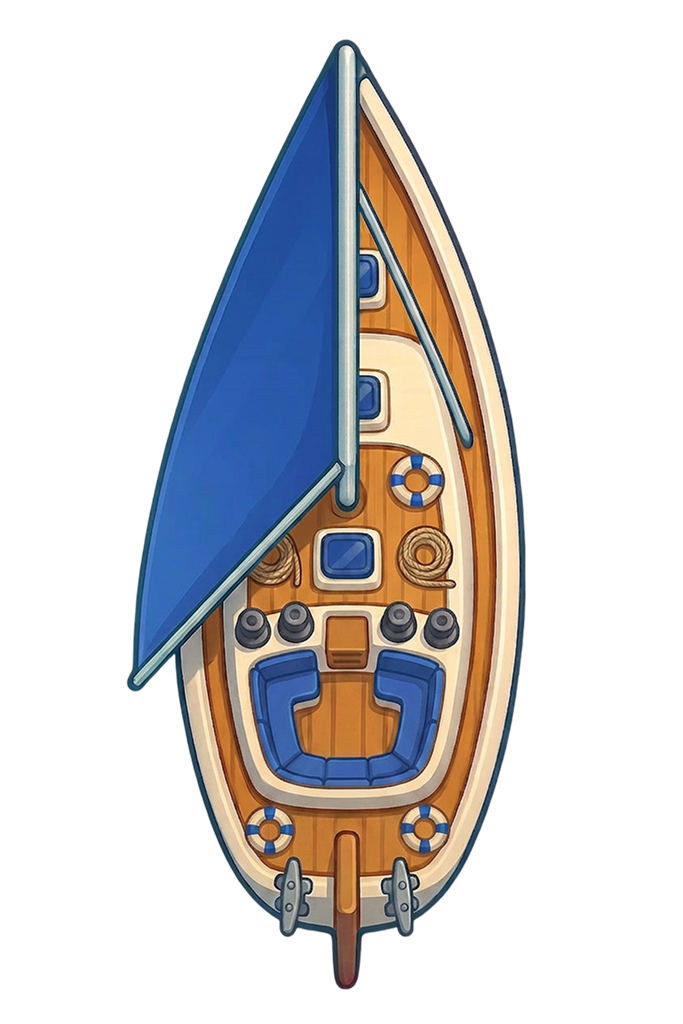
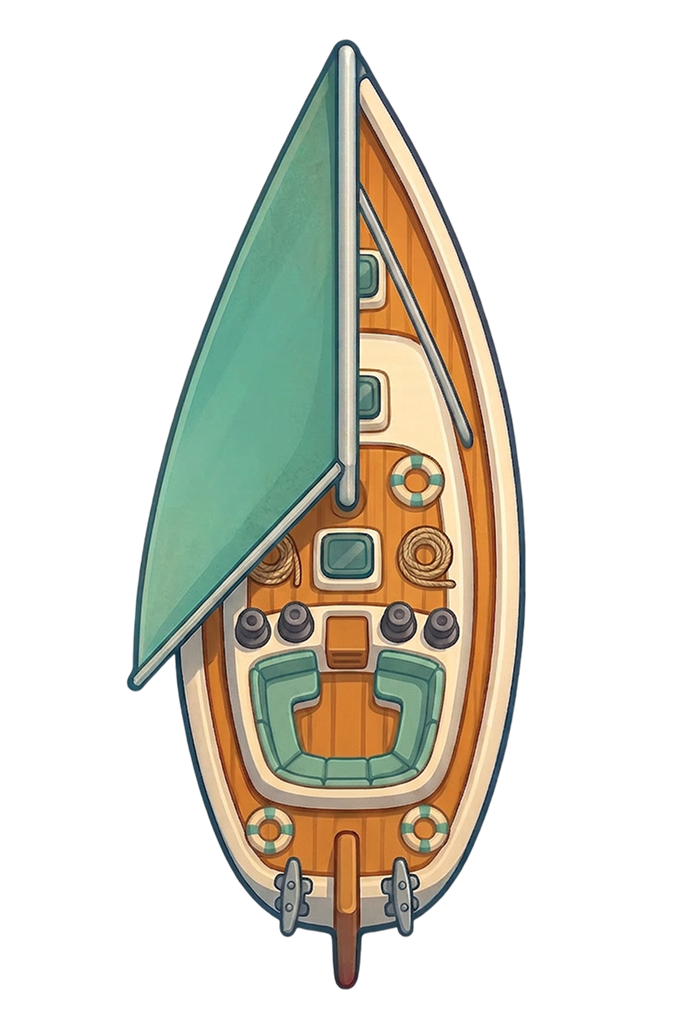
Optimization + Gameplay changes

diff --git a/src/config/tuning.ts b/src/config/tuning.ts
@@ -101,8 +101,6 @@ export const WORLD_OBJECT_DARKENING_CONFIG = {
     "money-change-up": { enabled: true, intensityMultiplier: 1 },
     "money-change-no": { enabled: true, intensityMultiplier: 1 },
     "money-change-down": { enabled: true, intensityMultiplier: 1 },
-    "obstacle-mine": { enabled: true, intensityMultiplier: 1 },
-    "obstacle-pirate": { enabled: true, intensityMultiplier: 1 },
     "obstacle-whirlpool": { enabled: true, intensityMultiplier: 1 },
     "obstacle-rock-1": { enabled: true, intensityMultiplier: 1 },
     "obstacle-rock-2": { enabled: true, intensityMultiplier: 1 },
@@ -126,17 +124,12 @@ export const WORLD_OBJECT_DARKENING_CONFIG = {
     "sea-bg-2-to-3": { enabled: false, intensityMultiplier: 1 },
     "sea-bg-3-to-4": { enabled: false, intensityMultiplier: 1 },
     "start-bg": { enabled: false, intensityMultiplier: 1 },
-    "onboarding-window": { enabled: false, intensityMultiplier: 1 },
     "flag-new": { enabled: false, intensityMultiplier: 1 },
     "skill-wheel-sector-1": { enabled: false, intensityMultiplier: 1 },
-    "skill-wheel-sector-2": { enabled: false, intensityMultiplier: 1 },
-    "skill-wheel-sector-3": { enabled: false, intensityMultiplier: 1 },
     "skill-wheel-bar-body": { enabled: false, intensityMultiplier: 1 },
     "skill-wheel-arrow": { enabled: false, intensityMultiplier: 1 },
     "skill-wheel-bonus-1": { enabled: false, intensityMultiplier: 1 },
-    "skill-wheel-bonus-2": { enabled: false, intensityMultiplier: 1 },
     "skill-wheel-bonus-3": { enabled: false, intensityMultiplier: 1 },
-    "skill-wheel-bonus-4": { enabled: false, intensityMultiplier: 1 },
   } as const,
 } as const;
 
@@ -194,29 +187,6 @@ export const SHIELD_ENERGY_BAR_UI = {
     yOffset: 13,
     depth: 57,
   },
-} as const;
-
-export const COIN_UI_CONFIG = {
-  x: 14,
-  y: 12,
-  width: 136,
-  height: 86,
-  radius: 16,
-  titleHeight: 30,
-  title: "МОНЕТЫ",
-  titleFontFamily: "Fascinate",
-  titleFontSizePx: 22,
-  titleColor: "#000000",
-  panelColor: 0xd9d9d9,
-  titlePanelColor: 0xb7b7b7,
-  iconKey: "coin",
-  iconSize: 28,
-  iconXOffset: 22,
-  valueFontFamily: "Fascinate",
-  valueFontSizePx: 52,
-  valueColor: "#000000",
-  valueXOffset: 56,
-  depth: 52,
 } as const;
 
 export const TIME_UI_CONFIG = {
@@ -595,7 +565,7 @@ export const RED_MAGNET_BUOY_CONFIG = {
   axisFactorY: 1,
   behindPullEnabled: true,
   behindPullImpulseMultiplier: 1,
-  behindPullMaxReverseSpeedPxPerSec: 220,
+  behindPullMaxReverseSpeedPxPerSec: 120,
   updateCooldownMs: 0,
 } as const;
 
@@ -889,11 +859,9 @@ export const HAZARD_COLLISION = {
 } as const;
 
 export const HAZARD_DAMAGE = {
-  mine: 0.24,
-  moneyDown: 0.4,
-  moneyDownMagnet: 0.4,
+  moneyDown: 0.2,
+  moneyDownMagnet: 0.2,
   dynamicDown: 0.4,
-  pirate: 0.35,
   whirlpool: 0.24,
 } as const;
 
@@ -1396,7 +1364,7 @@ export const ASSET_SHIELD_CONFIG = {
   },
   invulnerability: {
     enabled: true,
-    affectedHazards: ["moneyDown", "moneyDownMagnet", "dynamicDown", "mine", "pirate", "whirlpool"] as const,
+    affectedHazards: ["moneyDown", "moneyDownMagnet", "dynamicDown", "whirlpool"] as const,
     contactPushEnabled: true,
     contactPushByType: {
       moneyDown: {
@@ -1419,20 +1387,6 @@ export const ASSET_SHIELD_CONFIG = {
         verticalImpulseFactor: 0.3,
         maxVerticalPushPxPerSec: 180,
         cooldownMs: 120,
-      },
-      mine: {
-        impulsePxPerSec: 0,
-        separationPx: 0,
-        verticalImpulseFactor: 0,
-        maxVerticalPushPxPerSec: 0,
-        cooldownMs: 140,
-      },
-      pirate: {
-        impulsePxPerSec: 0,
-        separationPx: 0,
-        verticalImpulseFactor: 0,
-        maxVerticalPushPxPerSec: 0,
-        cooldownMs: 160,
       },
       whirlpool: {
         impulsePxPerSec: 0,
@@ -1478,8 +1432,6 @@ export const ASSET_SHIELD_CONFIG = {
         moneyDown: true,
         moneyDownMagnet: true,
         dynamicDown: true,
-        mine: false,
-        pirate: false,
       },
       originOffsetX: 0,
       originOffsetY: 0,
@@ -1763,7 +1715,7 @@ export const DYNAMIC_BUOY_STATES = {
   down: {
     textureKey: "money-change-down",
     dwellMs: 1_000,
-    fuelPenalty: 0.4,
+    fuelPenalty: 0.2,
   },
   no: {
     textureKey: "money-change-no",
@@ -1831,78 +1783,6 @@ export const DYNAMIC_BUOY_BLINK = {
 } as const;
 
 // Препятствия
-
-
-export const MINE_CONFIG = {
-  textureKey: "obstacle-mine",
-  width: 112,
-  height: 104,
-  depth: 14,
-  speedYMultiplier: 1.04,
-  driftAmplitudePx: 24,
-  driftFrequencyHz: 1.25,
-  driftPhaseMin: 0,
-  driftPhaseMax: Math.PI * 2,
-  swayAmplitudeDeg: 7,
-  swayFrequencyHz: 1.15,
-  hitbox: {
-    radiusXRatio: 0.75,
-    radiusYRatio: 0.75,
-    centerXRatio: 1.2,
-    centerYRatio: 1.25,
-  },
-  collisionCooldownMs: 220,
-  applyImpactAnimation: true,
-  magnet: {
-    enabled: true,
-    attractEnabled: true,
-    attractRadiusPx: 600,
-    attractForcePxPerSec: 1_000,
-    attractFalloffPower: 0.05,
-    maxPushSpeedPxPerSec: 5_000,
-    minDistancePx: 12,
-    centerOffsetX: 0,
-    centerOffsetY: 0,
-    axisFactorX: 1,
-    axisFactorY: 1,
-    updateCooldownMs: 0,
-    impulseScaleWhenShieldActive: 1,
-    allowWhileCollecting: false,
-  },
-} as const;
-
-export const PIRATE_CONFIG = {
-  textureKey: "obstacle-pirate",
-  width: 112,
-  height: 246,
-  depth: 15,
-  speedYMultiplier: 1.2,
-  driftAmplitudePx: 74,
-  driftFrequencyHz: 0.9,
-  driftPhaseMin: 0,
-  driftPhaseMax: Math.PI * 2,
-  swayAmplitudeDeg: 4,
-  swayFrequencyHz: 0.8,
-  turnNoseToVelocity: true,
-  noseRotationOffsetDeg: 90,
-  flipY: true,
-  hitbox: {
-    radiusXRatio: 0.5,
-    radiusYRatio: 0.75,
-    centerXRatio: 1.1,
-    centerYRatio: 1,
-  },
-  collisionCooldownMs: 260,
-  applyImpactAnimation: false,
-  yachtPush: {
-    impulsePxPerSec: 760,
-    impulseRandomMin: 0.95,
-    impulseRandomMax: 1.3,
-    verticalImpulseFactor: 0.42,
-    maxVerticalPushPxPerSec: 260,
-    separationPx: 18,
-  },
-} as const;
 
 export const WHIRLPOOL_CONFIG = {
   textureKey: "obstacle-whirlpool",

diff --git a/src/scenes/GameScene.ts b/src/scenes/GameScene.ts
@@ -205,8 +205,6 @@ export default class GameScene extends Phaser.Scene {
     multiplierText?: Phaser.GameObjects.Text;
   }> = [];
   private skillWheelModalState: "idle" | "intro" | "spinning" | "result" = "idle";
-  private skillWheelCurrentEvent?: ScheduledWheelEvent;
-  private skillWheelLastResultId?: SkillWheelRewardId;
   private skillWheelSpinStartAtMs = 0;
   private skillWheelSpinTargetAngleDeg = -90;
   private skillWheelSelectedSectorIndex = -1;
@@ -307,7 +305,6 @@ export default class GameScene extends Phaser.Scene {
   private yachtTier: 1 | 2 | 3 = 1;
   private remainingTimeMs = RUN_TIMER.initialMs;
 
-  private coinsCollected = 0; // awarded at harbor only
   private coinsScheduledTotal = 0;
   private wheelCoinBonusStacks = 0;
 
@@ -1246,7 +1243,6 @@ export default class GameScene extends Phaser.Scene {
     const wheelCoins = this.wheelCoinBonusStacks * RUN_COIN_REWARD_CONFIG.wheelCoinBonusPerStack;
     const earnedIfSuccess = yachtCoins + portfolioCoins + wheelCoins;
     const totalCoins = reachedHarbor ? earnedIfSuccess : 0;
-    this.coinsCollected = totalCoins;
 
     this.scene.start("Result", {
       distanceM: this.distanceM,
@@ -2881,23 +2877,6 @@ export default class GameScene extends Phaser.Scene {
       }
 
       let xRatio = item.xRatio;
-      if (item.type === "energy") {
-        const safeCandidate = this.findSafeCoinPlacement(
-          Math.max(segmentStartMeter, spawnMeter - SEGMENT_COIN_SAFETY.resampleMeterJitterMeters),
-          Math.min(segmentEndMeter, spawnMeter + SEGMENT_COIN_SAFETY.resampleMeterJitterMeters),
-          SEGMENT_COIN_SAFETY.safeXRatioMin,
-          SEGMENT_COIN_SAFETY.safeXRatioMax,
-          spawnMeter,
-          xRatio ?? 0.5,
-        );
-        if (!safeCandidate && SEGMENT_COIN_SAFETY.enabled) {
-          continue;
-        }
-        if (safeCandidate) {
-          spawnMeter = safeCandidate.spawnMeter;
-          xRatio = safeCandidate.xRatio;
-        }
-      }
 
       this.scheduledObjects.push({
         ...item,
@@ -2906,9 +2885,6 @@ export default class GameScene extends Phaser.Scene {
         scheduleId: `${template.id}@${poolIndex}@${spawnMeter.toFixed(2)}@${this.scheduledObjects.length}`,
         spawnMeter,
       });
-      if (item.type === "energy") {
-        this.coinsScheduledTotal += 1;
-      }
     }
   }
 
@@ -5509,23 +5485,6 @@ export default class GameScene extends Phaser.Scene {
     this.updateShieldButtonState();
   }
 
-  private refreshShieldDurationByPickup(source: "moneyUp" | "dynamicUp") {
-    if (!this.shieldActive) {
-      return;
-    }
-    if (source === "moneyUp" && !ASSET_SHIELD_CONFIG.refresh.resetOnMoneyUp) {
-      return;
-    }
-    if (source === "dynamicUp" && !ASSET_SHIELD_CONFIG.refresh.resetOnDynamicUp) {
-      return;
-    }
-    if (ASSET_SHIELD_CONFIG.refresh.stacking) {
-      this.shieldRemainingMs += ASSET_SHIELD_CONFIG.runtime.durationMs;
-      return;
-    }
-    this.shieldRemainingMs = ASSET_SHIELD_CONFIG.runtime.durationMs;
-  }
-
   private updateShieldRuntime(deltaMs: number, deltaSec: number) {
     if (!ASSET_SHIELD_CONFIG.enable || !this.shieldActive) {
       return;
@@ -7555,10 +7514,6 @@ export default class GameScene extends Phaser.Scene {
     return closestIndex;
   }
 
-  private hasActiveSkillWheelReward(id: SkillWheelRewardId) {
-    return this.activeSkillWheelRewards.some((reward) => reward.id === id);
-  }
-
   private getSkillWheelRewardStackValue(id: SkillWheelRewardId) {
     return this.activeSkillWheelRewards.find((reward) => reward.id === id)?.stackValue ?? 0;
   }
@@ -7915,7 +7870,6 @@ export default class GameScene extends Phaser.Scene {
     }
 
     const rewardId = this.getSkillWheelRewardIdBySectorIndex(this.skillWheelSelectedSectorIndex);
-    this.skillWheelLastResultId = rewardId;
     this.skillWheelPendingRewardId = rewardId;
 
     this.showSkillWheelResult(rewardId);
@@ -7977,7 +7931,6 @@ export default class GameScene extends Phaser.Scene {
     }
 
     event.consumed = true;
-    this.skillWheelCurrentEvent = event;
     this.skillWheelSelectedSectorIndex = -1;
     this.skillWheelSpinTargetAngleDeg = SKILL_WHEEL_UI_CONFIG.wheel.pointer.restAngleDeg;
     this.skillWheelSpinStartAtMs = this.time.now;
@@ -8013,7 +7966,6 @@ export default class GameScene extends Phaser.Scene {
     this.skillWheelPendingRewardId = undefined;
 
     this.skillWheelModalState = "idle";
-    this.skillWheelCurrentEvent = undefined;
     this.skillWheelSelectedSectorIndex = -1;
     this.skillWheelSpinTargetAngleDeg = SKILL_WHEEL_UI_CONFIG.wheel.pointer.restAngleDeg;
 
@@ -8361,7 +8313,6 @@ export default class GameScene extends Phaser.Scene {
     this.remainingTimeMs = RUN_TIMER.initialMs;
     this.shieldButtonLastTapAtMs = Number.NEGATIVE_INFINITY;
     this.shieldTapCandidate = undefined;
-    this.coinsCollected = 0;
     this.coinsScheduledTotal = 0;
     this.wheelCoinBonusStacks = 0;
     this.whirlpoolDebuffUntilMs = Number.NEGATIVE_INFINITY;
@@ -8369,8 +8320,6 @@ export default class GameScene extends Phaser.Scene {
     this.activeSkillWheelRewards = [];
     this.scheduledWheelEvents = [];
     this.wheelIslandVariantToggle = 0;
-    this.skillWheelCurrentEvent = undefined;
-    this.skillWheelLastResultId = undefined;
     this.skillWheelPendingRewardId = undefined;
     this.skillWheelModalState = "idle";
     this.skillWheelSpinStartAtMs = 0;
